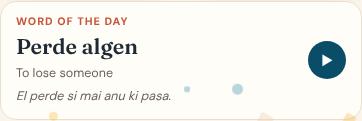
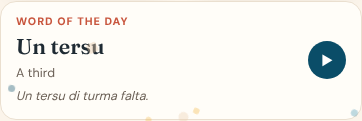
Speech: stricter rewording, stricter pass for short words, and a hint about which sound was off
Rewording heard words into Kriolu now follows only the regular spelling
differences (cuma/kuma, obrigado/obrigadu), so real words such as pela or
bela are left alone. Short words need a closer match. A rejected attempt says
which sound sounded different, and a reworded voice message shows what the
recognizer actually heard.

Claude-Session: https://claude.ai/code/session_014J2cTPbcBdrtKcVoWtzBoX

diff --git a/index.html b/index.html
@@ -4497,7 +4497,7 @@ function playSound(type) {
 // ═══════════════════════════════════════════
 // Which build is actually running. Without this there is no way to tell a
 // fix that did not work from a fix that never arrived.
-const APP_BUILD = 'v167';
+const APP_BUILD = 'v168';
 // Compares the code that is running with the server's build. The version lives in
 // sw.js (CACHE_NAME), which is a few KB, and stamp-build.js copies it into APP_BUILD on
 // every deploy, so the two always agree. Runs on start-up, when the app returns to the
@@ -5174,21 +5174,22 @@ function initChatAntonio() {
         const { kriolu, translation } = parseResponse(m.content);
         renderBotBubble(safeBotText(kriolu), translation);
       } else if (m.role === 'user') {
+        const hm = m.content.match(/ \{recognizer heard: "([^"]*)"\}$/);
         const txt = m.content.replace(/^\[VOICE\]\s*/, '').replace(/ \{recognizer heard: "[^"]*"\}$/, '');
-        renderUserBubble(txt, m.content.startsWith('[VOICE]'));
+        renderUserBubble(txt, m.content.startsWith('[VOICE]'), hm ? hm[1] : '');
       }
     });
   }
 }
 
 // Render-only helpers (do NOT modify chatHistory) — used to restore a saved chat
-function renderUserBubble(text, wasSpeech) {
+function renderUserBubble(text, wasSpeech, heard) {
   const win = document.getElementById('chat-window');
   if (!win) return;
   const div = document.createElement('div');
   div.className = 'chat-msg user';
   const micTag = wasSpeech ? '<span style="opacity:.7;font-size:.78rem;margin-right:4px">🎤</span>' : '';
-  div.innerHTML = `<div class="msg-avatar">👤</div><div class="msg-bubble">${micTag}${escapeHTML(text)}</div>`;
+  div.innerHTML = `<div class="msg-avatar">👤</div><div class="msg-bubble">${micTag}${escapeHTML(text)}${heard ? heardLineHTML(heard) : ''}</div>`;
   win.appendChild(div); win.scrollTop = win.scrollHeight;
 }
 function renderBotBubble(kriolu, english) {
@@ -9018,46 +9019,71 @@ const PHON_SUB = (() => {
   set('ai', .9); set('au', .9); set('eu', .9); set('io', .9);
   return t;
 })();
-function phonSub(a, b) {
+// Swaps that turn one real word into another (pela/bela, pela/pila): never treated as "the same sound" when we
+// are rewording what someone said, only when we are judging how close a pronunciation was. Rewording therefore
+// only follows the regular Kriolu/Portuguese spelling differences (cuma/kuma, obrigado/obrigadu, sabe/sabi).
+const PHON_REGULAR = new Set(['sz', 'zs', 'bv', 'vb', 'rR', 'Rr', 'ij', 'ji', 'uw', 'wu']);   // the only swaps that are just spelling or accent
+function phonSub(a, b, strict) {
   if (a === b) return 0;
+  if (strict && !PHON_REGULAR.has(a + b)) return 1;
   const c = PHON_SUB[a + b];
   if (c !== undefined) return c;
   const va = PHON_VOWELS.includes(a), vb = PHON_VOWELS.includes(b);
   return va !== vb ? 1.3 : 1;
 }
 // cost of a sound being added or dropped: vowels get reduced or dropped in fast speech, nasals vanish
-function phonIndel(s) {
-  if (PHON_VOWELS.includes(s)) return .6;
+function phonIndel(s, strict) {
+  if (PHON_VOWELS.includes(s)) return strict ? 1 : .6;
   if (s === 'j' || s === 'w') return .4;
   if (s === 'n') return .4;
   if (s === 'r' || s === 'R') return .7;
   if (s === 's' || s === 'S') return .8;
   return 1;
 }
-function phonDistance(a, b) {
+function phonDistance(a, b, strict) {
   const m = a.length, n = b.length;
-  if (!m) return [...b].reduce((x, c) => x + phonIndel(c), 0);
-  if (!n) return [...a].reduce((x, c) => x + phonIndel(c), 0);
+  if (!m) return [...b].reduce((x, c) => x + phonIndel(c, strict), 0);
+  if (!n) return [...a].reduce((x, c) => x + phonIndel(c, strict), 0);
   let prev = new Array(n + 1);
   prev[0] = 0;
-  for (let j = 1; j <= n; j++) prev[j] = prev[j - 1] + phonIndel(b[j - 1]);
+  for (let j = 1; j <= n; j++) prev[j] = prev[j - 1] + phonIndel(b[j - 1], strict);
   for (let i = 1; i <= m; i++) {
     const cur = new Array(n + 1);
-    cur[0] = prev[0] + phonIndel(a[i - 1]);
+    cur[0] = prev[0] + phonIndel(a[i - 1], strict);
     for (let j = 1; j <= n; j++) {
-      cur[j] = Math.min(prev[j - 1] + phonSub(a[i - 1], b[j - 1]), prev[j] + phonIndel(a[i - 1]), cur[j - 1] + phonIndel(b[j - 1]));
+      cur[j] = Math.min(prev[j - 1] + phonSub(a[i - 1], b[j - 1], strict), prev[j] + phonIndel(a[i - 1], strict), cur[j - 1] + phonIndel(b[j - 1], strict));
     }
     prev = cur;
   }
   return prev[n];
 }
 // 0 (nothing alike) … 1 (same sounds)
-function phonSimilarity(a, b) {
+function phonSimilarity(a, b, strict) {
   if (!a || !b) return 0;
-  return Math.max(0, 1 - phonDistance(a, b) / Math.max(a.length, b.length));
+  return Math.max(0, 1 - phonDistance(a, b, strict) / Math.max(a.length, b.length));
+}
+// Line two words of sounds up and list what differs: [{op:'sub'|'del'|'ins', t, h, at (0–1 along the target), cost}]
+function phonAlign(a, b) {
+  const m = a.length, n = b.length, d = [];
+  for (let i = 0; i <= m; i++) { d.push(new Array(n + 1).fill(0)); }
+  for (let i = 1; i <= m; i++) d[i][0] = d[i - 1][0] + phonIndel(a[i - 1]);
+  for (let j = 1; j <= n; j++) d[0][j] = d[0][j - 1] + phonIndel(b[j - 1]);
+  for (let i = 1; i <= m; i++) for (let j = 1; j <= n; j++)
+    d[i][j] = Math.min(d[i - 1][j - 1] + phonSub(a[i - 1], b[j - 1]), d[i - 1][j] + phonIndel(a[i - 1]), d[i][j - 1] + phonIndel(b[j - 1]));
+  const ops = []; let i = m, j = n;
+  while (i > 0 || j > 0) {
+    if (i > 0 && j > 0 && d[i][j] === d[i - 1][j - 1] + phonSub(a[i - 1], b[j - 1])) {
+      const c = phonSub(a[i - 1], b[j - 1]); if (c > 0) ops.push({ op: 'sub', t: a[i - 1], h: b[j - 1], at: (i - .5) / m, cost: c }); i--; j--;
+    } else if (i > 0 && d[i][j] === d[i - 1][j] + phonIndel(a[i - 1])) { ops.push({ op: 'del', t: a[i - 1], at: (i - .5) / m, cost: phonIndel(a[i - 1]) }); i--; }
+    else { ops.push({ op: 'ins', h: b[j - 1], at: Math.min(1, j / Math.max(n, 1)), cost: phonIndel(b[j - 1]) }); j--; }
+  }
+  return ops.reverse();
 }
 
-const SPEECH_PASS = .66, SPEECH_GREAT = .86;
+const SPEECH_PASS = .66, SPEECH_GREAT = .86, SPEECH_PASS_SHORT = .75;   // short words have little room for error
+const SOUND_NAMES = { C: '“tx” (like ch in church)', J: '“dj” (like j in jump)', N: '“nh” (like ny in canyon)', L: '“lh” (like lli in million)',
+  S: '“x” (like sh)', Z: '“j” (like the s in measure)', R: 'a rolled r', r: 'r', a: '“ah”', e: '“eh”', i: '“ee”', o: '“oh”', u: '“oo”', j: '“y”', w: '“w”' };
+const soundName = c => SOUND_NAMES[c] || '“' + c + '”';
 function speechTokens(s) { return String(s || '').toLowerCase().replace(/[.,!?;:"'¡¿()\[\]…—–-]/g, ' ').split(/\s+/).filter(Boolean); }
 
 // How well does what the recognizer heard (cand) sound like the target? target is spelled in targetMode, what was
@@ -9094,8 +9120,31 @@ function speechScore(target, candidates, targetMode) {
 // Portuguese course; what the recognizer heard is always Portuguese spelling.
 function speechMode() { return isPT() ? 'pt' : 'kr'; }
 function speechVerdict(target, candidates) {
-  const r = speechScore(target, candidates, speechMode());
-  return { pass: r.score >= SPEECH_PASS, great: r.score >= SPEECH_GREAT, score: r.score, heard: r.heard };
+  const mode = speechMode(), r = speechScore(target, candidates, mode);
+  const need = phones(speechTokens(target).join(''), mode).length <= 3 ? SPEECH_PASS_SHORT : SPEECH_PASS;
+  return { pass: r.score >= need, great: r.score >= SPEECH_GREAT, score: r.score, heard: r.heard, hint: r.score >= need ? '' : speechHint(target, r.heard, mode) };
+}
+// When it did not match: which sound was off? One short, friendly pointer, never a verdict on the learner.
+function speechHint(target, heard, mode) {
+  const tTok = speechTokens(target), cTok = speechTokens(heard);
+  if (!tTok.length || !cTok.length) return '';
+  const cPh = cTok.map(c => phones(c, 'pt')); cPh.push(cPh.join(''));
+  for (let i = 0; i + 1 < cTok.length; i++) cPh.push(cPh[i] + cPh[i + 1]);
+  let pick = null;                                         // the target word that matched worst
+  tTok.forEach(t => {
+    const tp = phones(t, mode); if (!tp) return;
+    let bestS = -1, bestC = '';
+    cPh.forEach(cp => { const v = phonSimilarity(tp, cp); if (v > bestS) { bestS = v; bestC = cp; } });
+    if (!pick || bestS < pick.s) pick = { t, tp, s: bestS, cp: bestC };
+  });
+  if (!pick) return '';
+  const ops = phonAlign(pick.tp, pick.cp).filter(o => o.cost >= .5).sort((x, y) => y.cost - x.cost);
+  if (!ops.length) return '';
+  const o = ops[0], where = o.at < .34 ? 'beginning' : o.at > .66 ? 'ending' : 'middle';
+  const word = tTok.length > 1 ? ' in “' + pick.t + '”' : '';
+  if (o.op === 'sub') return `Listen to the ${where}${word}: it should be ${soundName(o.t)}, and it sounded like ${soundName(o.h)}.`;
+  if (o.op === 'del') return `I couldn't hear the ${soundName(o.t)} at the ${where}${word}.`;
+  return `There was an extra ${soundName(o.h)} sound at the ${where}${word}.`;
 }
 function speechMatches(target, candidates) { return speechVerdict(target, candidates).pass; }
 
@@ -9131,11 +9180,11 @@ function krWordFor(tok) {
   if (ph.length < 3) return { w: tok, sim: 0 };           // too short to guess safely
   let best = null, bestSim = 0;
   for (let L = Math.max(1, ph.length - 2); L <= ph.length + 2; L++) {
-    (lex.byLen[L] || []).forEach(e => { const v = phonSimilarity(ph, e.ph); if (v > bestSim) { bestSim = v; best = e; } });
+    (lex.byLen[L] || []).forEach(e => { const v = phonSimilarity(ph, e.ph, true); if (v > bestSim) { bestSim = v; best = e; } });
   }
   return best && bestSim >= SPEECH_REMAP ? { w: best.w, sim: bestSim } : { w: tok, sim: 0 };
 }
-const SPEECH_REMAP = .82;
+const SPEECH_REMAP = .85;
 // Pick the recognizer's guess that sounds most like real Kriolu, and spell its words the Kriolu way.
 function kriolizeSpeech(alternatives) {
   let best = null;
@@ -9170,7 +9219,7 @@ function evaluateSpeech(displayTranscript, alternatives, q) {
     antonioReact(false, aStatus);
     // Don't punish immediately — the recognizer struggles with Kriolu.
     // Offer a one-tap override so a wrong rejection never costs a life unfairly.
-    resultEl.innerHTML = `<div class="speak-result bad">Heard: "${escapeHTML(displayTranscript)}"<br>
+    resultEl.innerHTML = `<div class="speak-result bad">Heard: "${escapeHTML(displayTranscript)}"${verdict.hint ? '<br><span style="font-size:.82rem">💡 ' + escapeHTML(verdict.hint) + '</span>' : ''}<br>
       <span style="font-size:.78rem">${isPT() ? 'Speech recognition isn\'t perfect — if you said it right, tap below.' : 'The recognizer hears Kriolu as Portuguese, so it isn\'t perfect.'}</span></div>
       <div class="self-assess-row" style="margin-top:10px">
         <button class="fc-btn wrong" onclick="speakOverride(false)">Try again ↺</button>
@@ -11839,12 +11888,15 @@ function awardChatXP() {
 
 function useStarter(text) { document.getElementById('chat-input').value = text; document.getElementById('chat-input').focus(); }
 
+// When what we show was reworded by sound, say what the recognizer actually heard, so nothing is hidden from the learner
+const heardLineHTML = heard => `<div style="font-size:.66rem;opacity:.7;margin-top:3px">heard: “${escapeHTML(heard)}”</div>`;
 function appendUserMessage(text, wasSpeech, heard) {
   const win = document.getElementById('chat-window');
   const div = document.createElement('div');
   div.className = 'chat-msg user';
   const micTag = wasSpeech ? '<span style="opacity:.7;font-size:.78rem;margin-right:4px">🎤</span>' : '';
-  div.innerHTML = `<div class="msg-avatar">👤</div><div class="msg-bubble">${micTag}${escapeHTML(text)}</div>`;
+  const heardLine = wasSpeech && heard && normalizeText(heard) !== normalizeText(text) ? heardLineHTML(heard) : '';
+  div.innerHTML = `<div class="msg-avatar">👤</div><div class="msg-bubble">${micTag}${escapeHTML(text)}${heardLine}</div>`;
   win.appendChild(div); win.scrollTop = win.scrollHeight;
   // Tag voice messages so the tutor analyzes pronunciation; display stays clean
   // For the tutor: the Kriolu we matched by sound, and (when different) the raw Portuguese the recognizer heard
@@ -13613,7 +13665,7 @@ function shadowRepeat(i, target) {
     if (ok) { state.shadowDone = (state.shadowDone||0) + 1; saveState(); checkAchievements(); }
     resultEl.innerHTML = ok
       ? `<div class="speak-result good" style="margin-top:8px">${verdict.great ? '🎉 Great — that sounded right!' : '👍 Close — that sounded right!'}</div>`
-      : `<div class="speak-result bad" style="margin-top:8px">Heard: "${escapeHTML(alts[0])}" — listen again and match the rhythm. Keep going!</div>`;
+      : `<div class="speak-result bad" style="margin-top:8px">Heard: "${escapeHTML(alts[0])}"${verdict.hint ? '<br><span style="font-size:.82rem">💡 ' + escapeHTML(verdict.hint) + '</span>' : ''} — listen again and match the rhythm. Keep going!</div>`;
   };
   shadowRecognition.onerror = () => { btn.classList.remove('listening'); btn.textContent = '🎤 Repeat'; };
   shadowRecognition.start();

diff --git a/sw.js b/sw.js
@@ -1,5 +1,5 @@
 // Kriolu PWA Service Worker
-const CACHE_NAME = 'kriolu-v167';
+const CACHE_NAME = 'kriolu-v168';
 const APP_SHELL = [
   './',
   './index.html',
